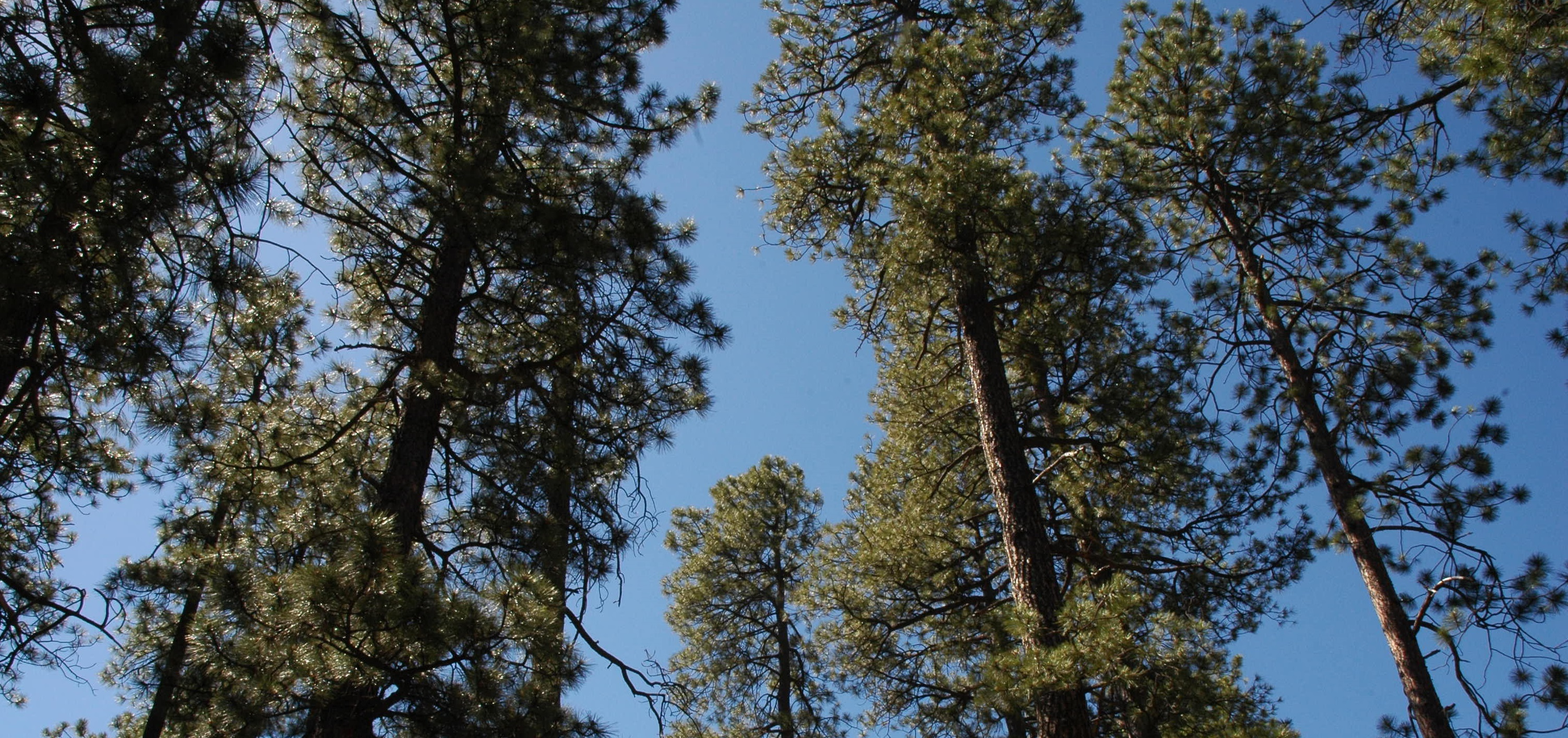
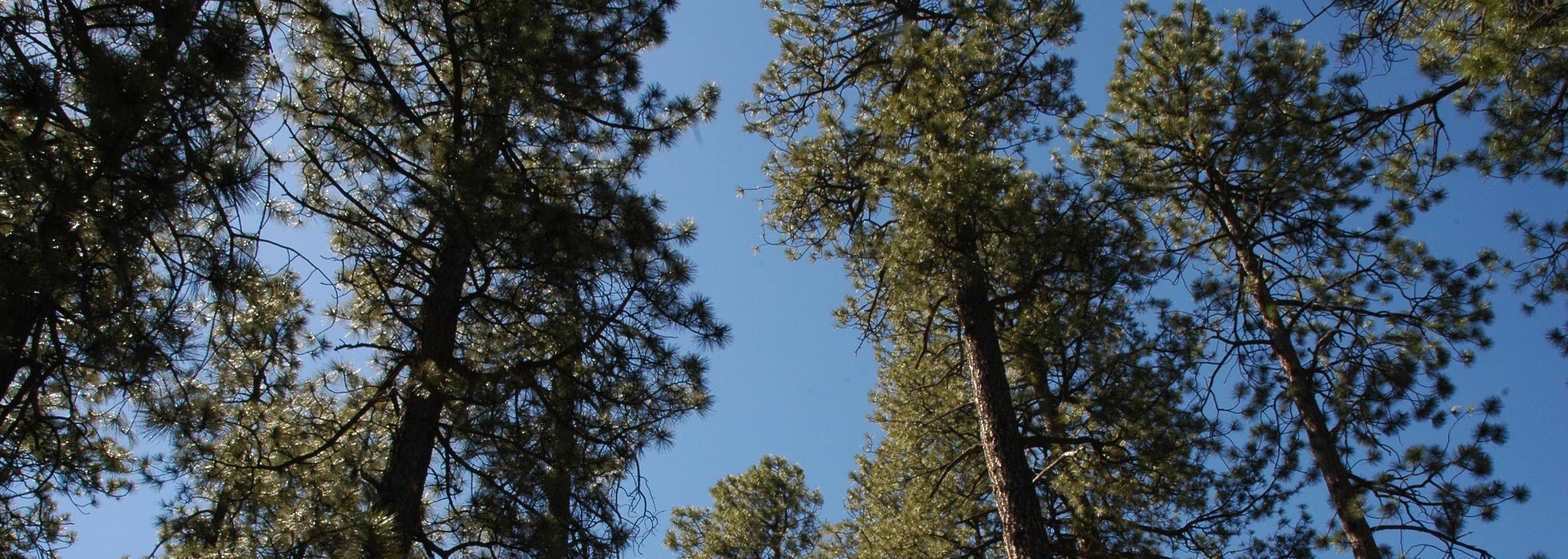
update

diff --git a/index.html b/index.html
@@ -25,7 +25,7 @@
 <script src="site_libs/highlightjs-9.12.0/highlight.js"></script>
 <link href="site_libs/font-awesome-5.1.0/css/all.css" rel="stylesheet" />
 <link href="site_libs/font-awesome-5.1.0/css/v4-shims.css" rel="stylesheet" />
-<div><img src="cover.JPG" width="80%" align="center"></div>
+<div><img src="cover.JPG" width="100%" align="center"></div>
 
 <style type="text/css">code{white-space: pre;}</style>
 <style type="text/css">

diff --git a/cover.html b/cover.html
@@ -1,1 +1,1 @@
-<div><img src="cover.JPG" width="80%" align="center"></div>
+<div><img src="cover.JPG" width="100%" align="center"></div>
